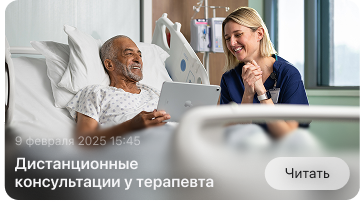
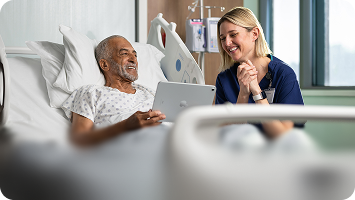
news on news_feed fix :3

diff --git a/lib/components/News_pallet.dart b/lib/components/News_pallet.dart
@@ -1,108 +1,125 @@
 import 'package:flutter/material.dart';
-
-import '../themes/AppColors.dart';
+import 'package:last_telemedicine/components/Notification.dart';
+import 'package:last_telemedicine/themes/AppColors.dart';
+import 'package:url_launcher/url_launcher.dart';
 
 class NewsCard extends StatelessWidget {
-  final String date; // например "9 февраля 2025 15:45"
-  final String title; // белый текст слева снизу
-  final ImageProvider? image; // фон (FileImage/NetworkImage/AssetImage)
-  final VoidCallback? onRead; // действие по нажатию "Читать"
-  final double height;
-  final BorderRadiusGeometry borderRadius;
+  final String date;
+  final String title;
+  final String url;
+  final String imagePath;
 
   const NewsCard({
     Key? key,
     required this.date,
     required this.title,
-    this.image,
-    this.onRead,
-    this.height = 240,
-    this.borderRadius = const BorderRadius.all(Radius.circular(12)),
+    required this.url,
+    required this.imagePath,
   }) : super(key: key);
+
+  Future<void> _openUrl(BuildContext context) async {
+    final uri = Uri.parse(url);
+    if (await canLaunchUrl(uri)) {
+      await launchUrl(uri, mode: LaunchMode.externalApplication);
+    } else {
+      // можно показать Snackbar или лог
+      showCustomNotification(context, "Не удалось открыть ссылку");
+    }
+  }
 
   @override
   Widget build(BuildContext context) {
-    return ClipRRect(
-      borderRadius: borderRadius,
+    return Padding(
+      padding: const EdgeInsets.only(top: 15),
       child: SizedBox(
-        height: height,
-        width: double.infinity,
-        child: Stack(
-          fit: StackFit.expand,
-          children: [
-            // Фон: изображение или плейсхолдер
-            if (image != null)
-              Image(
-                image: image!,
-                fit: BoxFit.cover,
-              )
-            else
-              Container(color: Colors.grey.shade300),
-
-
-            // Содержимое: дата вверху слева, заголовок снизу слева, "Читать" справа внизу
-            Padding(
-              padding: const EdgeInsets.symmetric(horizontal: 12, vertical: 12),
-              child: Column(
-                crossAxisAlignment: CrossAxisAlignment.start,
-                children: [
-                  const Spacer(),
-                  // Дата сверху слева
-                  Text(
-                    date,
-                    style: const TextStyle(
-                      color: Color(0x80F5F5F7),
-                      fontSize: 12,
-                      fontWeight: FontWeight.w500,
-                    ),
+        height: 210,
+        child: ClipRRect(
+          borderRadius: BorderRadius.circular(14),
+          child: Stack(
+            fit: StackFit.expand,
+            children: [
+              // Фоновое изображение растянутое по границам блока
+              DecoratedBox(
+                decoration: BoxDecoration(
+                  image: DecorationImage(
+                    image: AssetImage(imagePath),
+                    fit: BoxFit.cover,
                   ),
+                ),
+              ),
 
-                  // Низ: заголовок слева и кнопка справа
-                  Row(
-
+              Positioned(
+                left: 0,
+                right: 0,
+                bottom: 0,
+                child: Padding(
+                  padding: const EdgeInsets.all(10),
+                  child: Row(
+                    crossAxisAlignment: CrossAxisAlignment.end,
                     children: [
-                      // Заголовок (может занимать несколько строк)
                       Expanded(
-                        child: Text(
-                          title,
-                          maxLines: 2,
-                          overflow: TextOverflow.ellipsis,
-                          style: const TextStyle(
-                            color: Colors.white,
-                            fontSize: 18,
-                            fontWeight: FontWeight.w600,
-                          ),
+                        child: Column(
+                          mainAxisSize: MainAxisSize.min,
+                          crossAxisAlignment: CrossAxisAlignment.start,
+                          children: [
+                            Text(
+                              date,
+                              textAlign: TextAlign.left,
+                              style: const TextStyle(
+                                color: Color(0xFFA8A7A7),
+                                fontSize: 12,
+                                height: 1.3,
+                                fontWeight: FontWeight.w400,
+                              ),
+                            ),
+                            const SizedBox(height: 4),
+                            Text(
+                              title,
+                              textAlign: TextAlign.left,
+                              style: const TextStyle(
+                                color: AppColors.background3,
+                                fontSize: 16,
+                                height: 1.3,
+                                fontWeight: FontWeight.w600,
+                              ),
+                              maxLines: 2,
+                              overflow: TextOverflow.ellipsis,
+                            ),
+                          ],
                         ),
                       ),
 
-                      const SizedBox(width: 12),
+                      const SizedBox(width: 50),
 
-                      // Кнопка "Читать"
-                      GestureDetector(
-                        onTap: onRead,
-                        child: Container(
-                          padding: const EdgeInsets.symmetric(horizontal: 10, vertical: 6),
-                          decoration: BoxDecoration(
-                            color: Colors.white.withValues(alpha: .33),
-                            borderRadius: BorderRadius.circular(8),
-                          ),
-                          child: const Text(
-                            'Читать',
-                            style: TextStyle(
+                      Opacity(
+                        opacity: 0.66,
+                        child: GestureDetector(
+                          onTap: () => _openUrl(context),
+                          child: Container(
+                            height: 33,
+                            padding: const EdgeInsets.symmetric(horizontal: 14),
+                            decoration: BoxDecoration(
                               color: Colors.white,
-                              fontSize: 13,
-                              fontWeight: FontWeight.w600,
+                              borderRadius: BorderRadius.circular(30),
+                            ),
+                            alignment: Alignment.center,
+                            child: const Text(
+                              'Читать',
+                              style: TextStyle(
+                                color: AppColors.primaryText,
+                                fontSize: 14,
+                                fontWeight: FontWeight.w400,
+                              ),
                             ),
                           ),
                         ),
                       ),
                     ],
                   ),
-
-                ],
+                ),
               ),
-            ),
-          ],
+            ],
+          ),
         ),
       ),
     );

diff --git a/lib/pages/News_feed.dart b/lib/pages/News_feed.dart
@@ -92,32 +92,19 @@ class _ProfilePageState extends State<NewsFeedPage> {
                       ],
                     ),
 
-                    const SizedBox(height: 12),
-
-                    Image(
-                      image: AssetImage("assets/images/app/News_2.png"),
-                      fit: BoxFit.cover,
+                    NewsCard(
+                      date: '9 февраля 2025 15:45',
+                      title: 'Дистанционные консультации у терапевта',
+                      url: 'https://example.com/news/1',
+                      imagePath: 'assets/images/app/News_1.png',
                     ),
 
-                    // NewsCard(
-                    //   date: '9 февраля 2025 15:45',
-                    //   title: 'Дистанционные\nконсультации у терапевта',
-                    //   image:
-                    // ),
-                    const SizedBox(height: 12),
-
-                    Image(
-                      image: AssetImage("assets/images/app/News_1.png"),
-                      fit: BoxFit.cover,
+                    NewsCard(
+                      date: '23 февраля 2025 10:21',
+                      title: 'Следите за приёмом лекарств в личном кабинете',
+                      url: 'https://example.com/news/1',
+                      imagePath: 'assets/images/app/News_2.png',
                     ),
-
-                    // NewsCard(
-                    //   date: '9 февраля 2025 15:45',
-                    //   title: 'Следите за приёмом\nв личном кабинете',
-                    //   image: AssetImage(
-                    //     "assets/images/app/News_1.png",
-                    //   ),
-                    // ),
                   ],
                 ),
               ),
